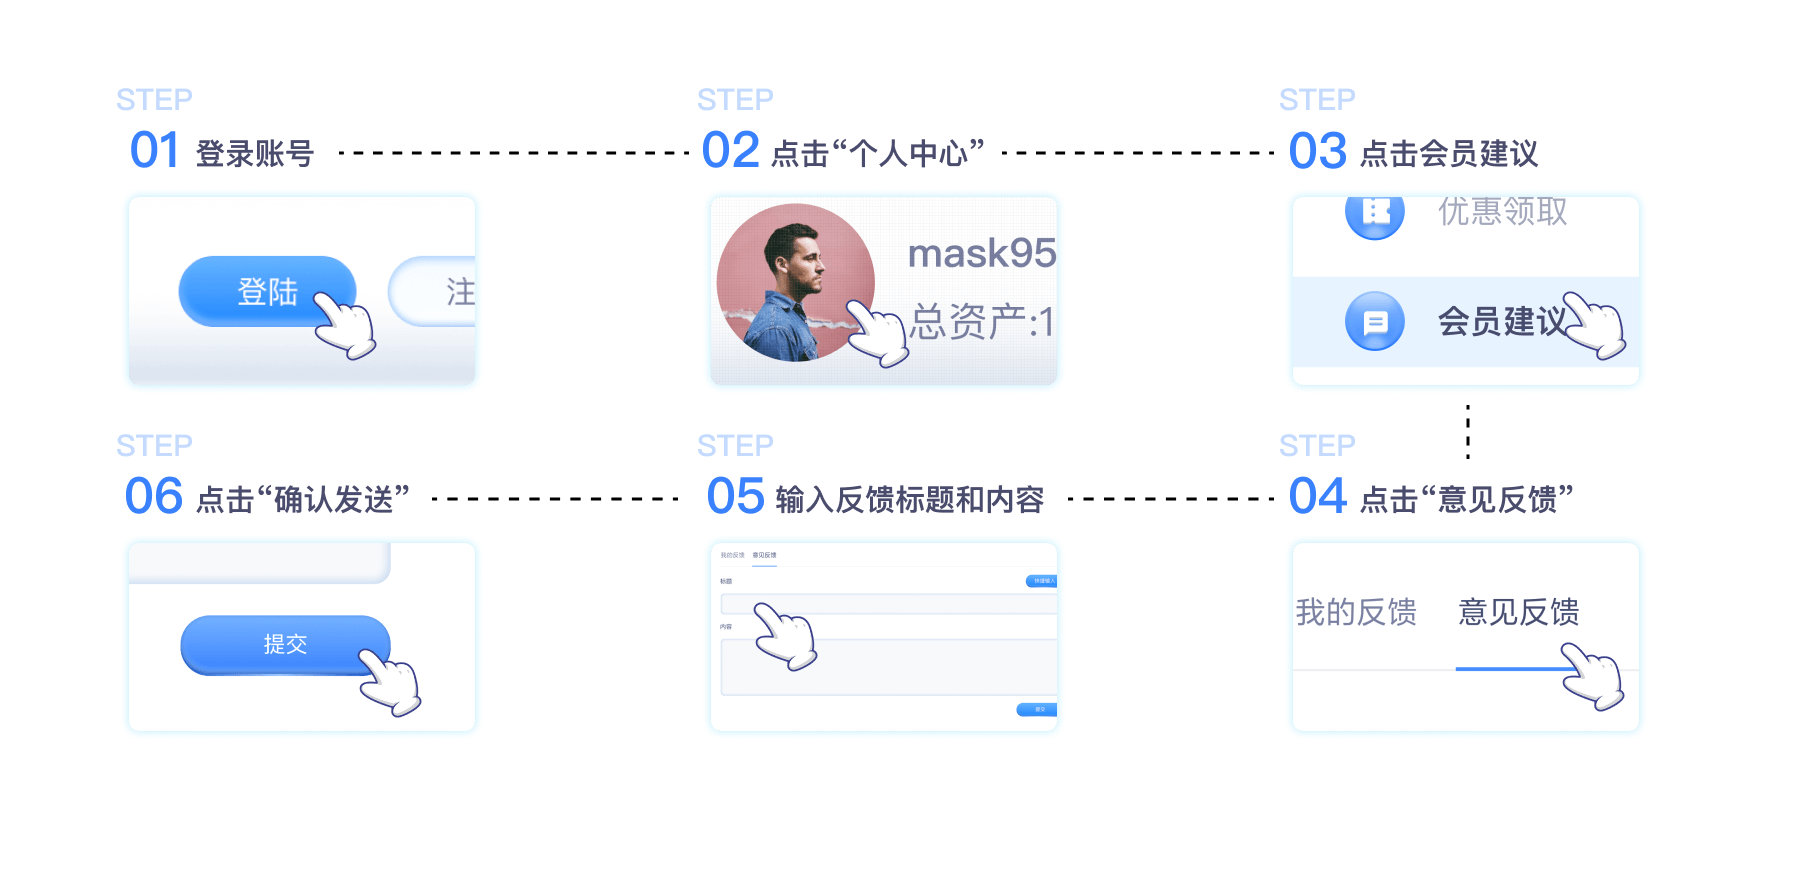
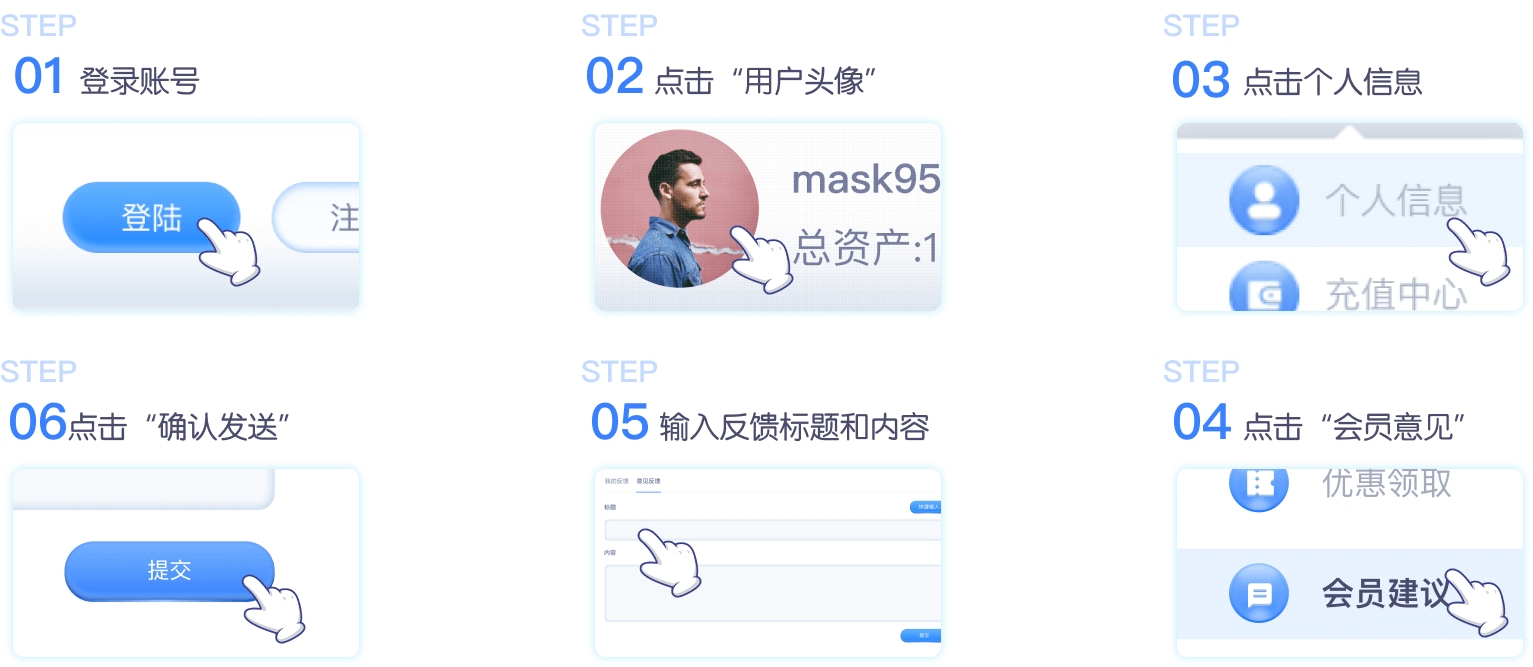
feat: LH change feedback imgs

diff --git a/lh-static-web/src/components/HotPromotion.vue b/lh-static-web/src/components/HotPromotion.vue
@@ -26,7 +26,7 @@
     <Cny2024Promo v-if="list.redirectUrl === 'lh1-cny2024-promo' && !isCommonPromo && store.token" />
     <div style="text-align: center" v-if="list.redirectUrl === 'lh1-feedback-award' && !isCommonPromo && store.token">
       <img
-        style="max-width: 1200px; width: 100%; margin: 10px auto"
+        style="max-width: 1200px; width: 100%; margin: 25px auto 0px"
         src="../assets/images/promotion/hotpromo/lhfeedback/feedback.png"
       />
     </div>

diff --git a/lh-static-h5/src/components/hotpromo/feedbackaward/feedbackAwardPromo.vue b/lh-static-h5/src/components/hotpromo/feedbackaward/feedbackAwardPromo.vue
@@ -1,6 +1,6 @@
 import { RiTextWrap } from 'vue-remix-icons'; import { RiFileExcel2Fill } from 'vue-remix-icons';
 <template>
-  <div><img src="../../../assets/images/promo/hotpromo/feedbackaward/step-feedback-award.png" /></div>
+  <div><img src="../../../assets/images/promo/hotpromo/feedbackaward/step-feedback-steps.png" /></div>
 </template>
 
 <!-- <style lang="scss" scoped>
